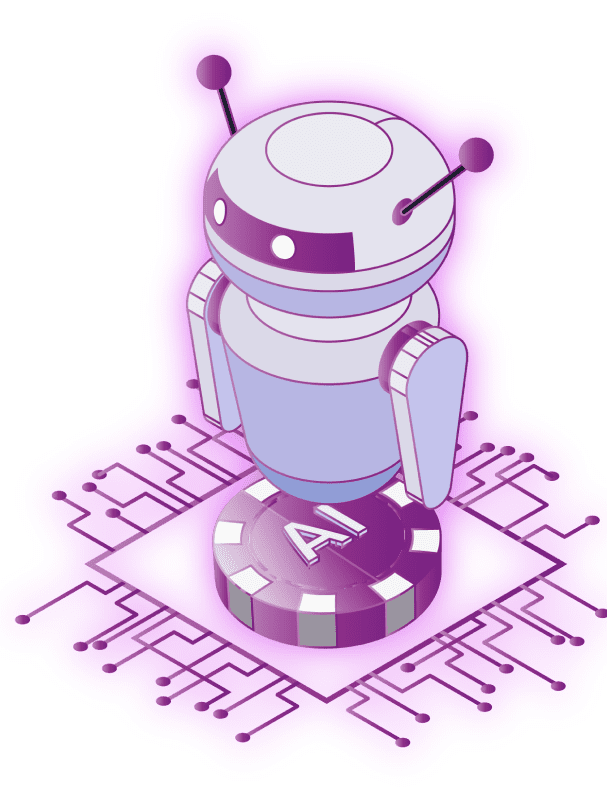
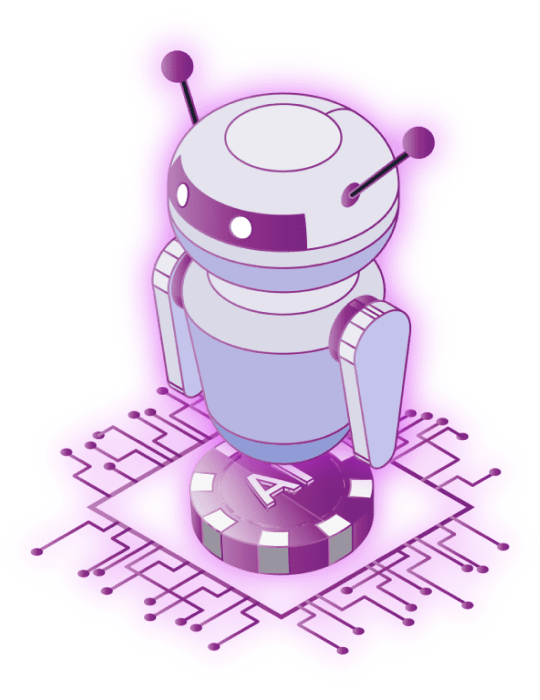
first commit

Changed region(s): [[0.0296, 0.06, 1.0, 0.96], [0.9481, 0.63, 1.0, 0.66]]

diff --git a/cn_index.html b/cn_index.html
@@ -26,7 +26,7 @@
         >
           <div class="flex flex-row items-center justify-between p-8">
             <a href="#" class="h-16 w-36">
-              <img src="/src/img/AI_Logo.png" alt="" />
+              <img src="/src/img/aiLogo.png" alt="" />
             </a>
             <button
               class="focus:shadow-outline rounded-lg text-white focus:outline-none md:hidden"
@@ -176,7 +176,7 @@
                     <img
                       class="w-full object-cover object-center"
                       style="height: 600px"
-                      src="/src/img/Group 1.png"
+                      src="/src/img/bot.png"
                     />
                   </div>
                 </div>

diff --git a/index.html b/index.html
@@ -26,7 +26,7 @@
         >
           <div class="flex flex-row items-center justify-between p-8">
             <a href="#" class="h-16 w-36">
-              <img src="/src/img/AI_Logo.png" alt="" />
+              <img src="/src/img/aiLogo.png" alt="" />
             </a>
             <button
               class="focus:shadow-outline rounded-lg text-white focus:outline-none md:hidden"
@@ -160,7 +160,7 @@
                     <img
                       class="w-full object-cover object-center"
                       style="height: 600px"
-                      src="/src/img/Group 1.png"
+                      src="/src/img/bot.png"
                     />
                   </div>
                 </div>

diff --git a/jp_index.html b/jp_index.html
@@ -26,7 +26,7 @@
         >
           <div class="flex flex-row items-center justify-between p-8">
             <a href="#" class="h-16 w-36">
-              <img src="/src/img/AI_Logo.png" alt="" />
+              <img src="/src/img/aiLogo.png" alt="" />
             </a>
             <button
               class="focus:shadow-outline rounded-lg text-white focus:outline-none md:hidden"
@@ -179,7 +179,7 @@
                     <img
                       class="w-full object-cover object-center"
                       style="height: 600px"
-                      src="/src/img/Group 1.png"
+                      src="/src/img/bot.png"
                     />
                   </div>
                 </div>
